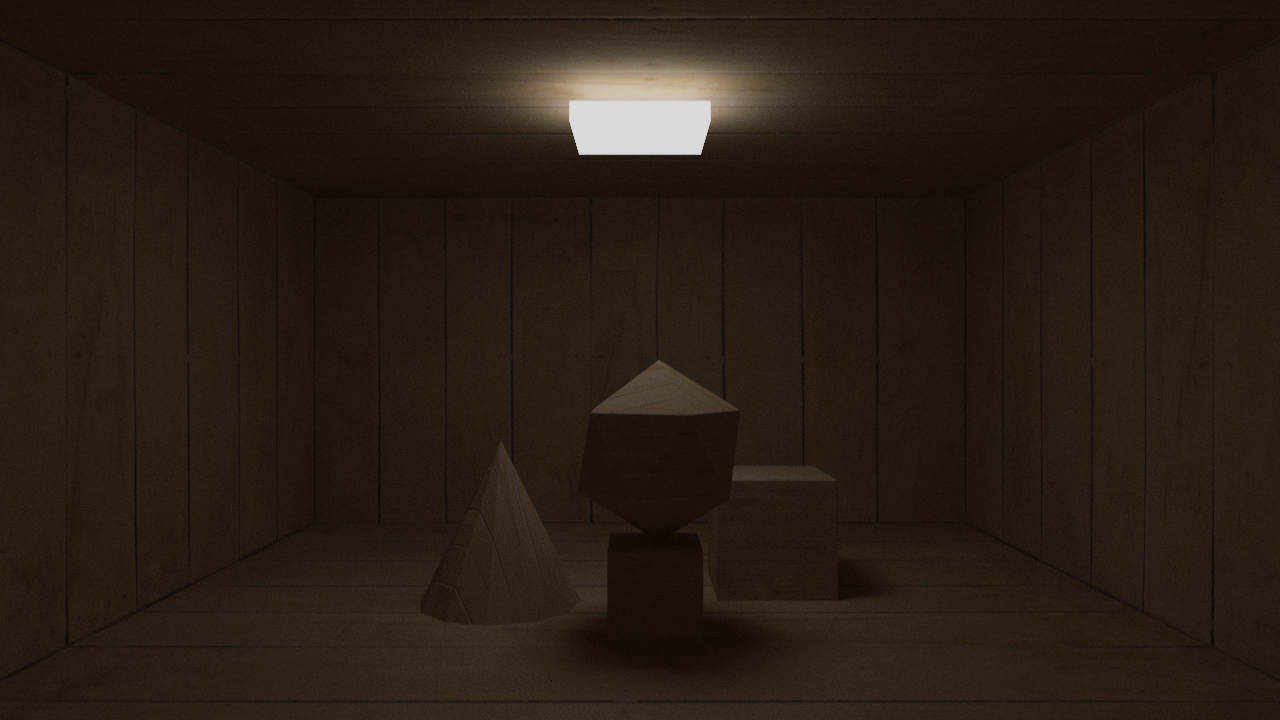
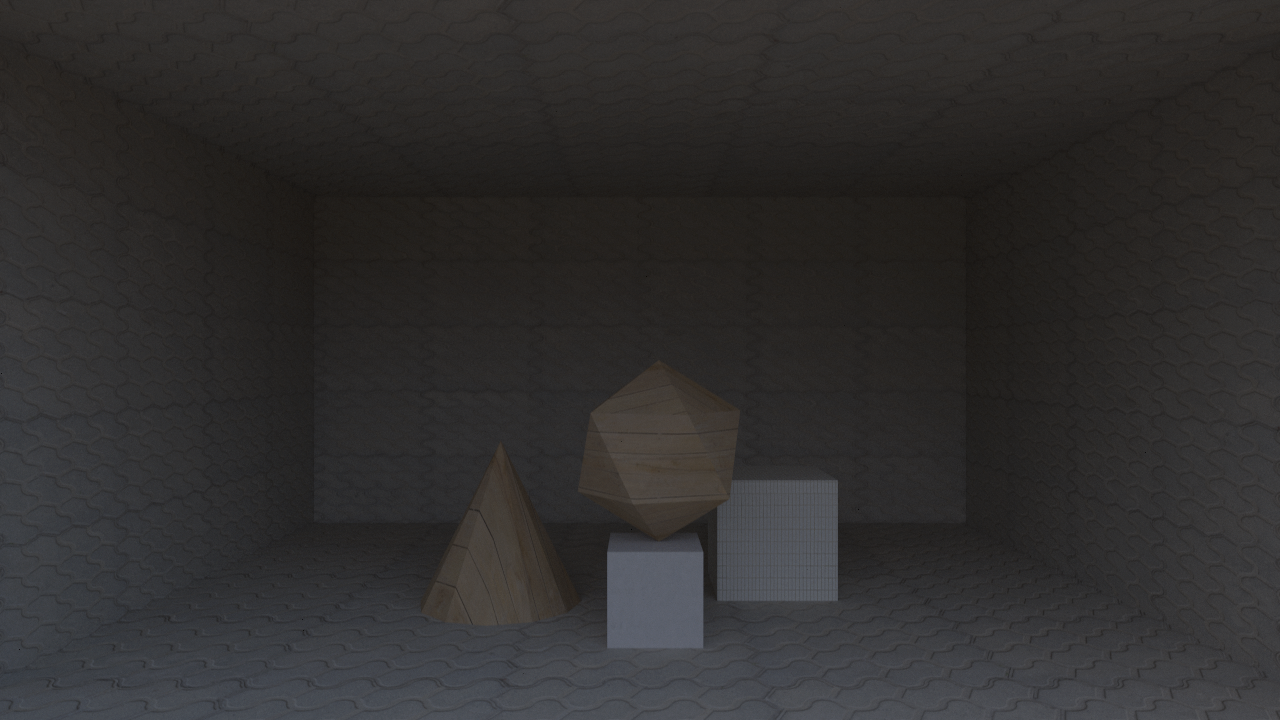
Materials reworked

diff --git a/src/main.cpp b/src/main.cpp
@@ -1,5 +1,6 @@
 #include "glad/glad.h"
 #include <GLFW/glfw3.h>
+#include <cstdint>
 #include <glm/ext/matrix_float4x4.hpp>
 #include <glm/ext/matrix_transform.hpp>
 #include <glm/glm.hpp>
@@ -101,7 +102,7 @@ int main() {
     Vision::VertexArray va;
     va.AddBuffer(buffer, layout);
 
-    Loader loader("res/models/hdri-test.obj");
+    Loader loader("res/models/scene-2.obj");
 
     Vision::ShaderStorage ssbo(loader.GetTrigs().data(),
                                loader.GetTrigs().size() * sizeof(Triangle), 1);
@@ -112,28 +113,50 @@ int main() {
     meshesBuffer.Bind();
 
     Vision::ComputeShader computeShader("res/shaders/Basic.comp");
-    computeShader.SetIntArrayInit("uTex");
     Vision::Texture textureOld(imgSize.x, imgSize.y, GL_RGBA32F, 1);
     textureOld.Bind(1);
     Vision::Texture texture(imgSize.x, imgSize.y, GL_RGBA32F, 0);
     texture.Bind(0);
 
-    Material planks(0, "res/textures/wood_planks_diff_2k.png",
-                    "res/textures/wood_planks_rough_2k.png",
-                    "res/textures/wood_planks_nor_gl_2k.png", //
-                    GL_RGB16F, GL_R16F, GL_RGB16F);
-    Material concrete(1, "res/textures/patterned_concrete_pavers_diff_2k.png",
+    Material tiles(0, "res/textures/long_white_tiles_diff_2k.png",
+                      "res/textures/long_white_tiles_rough_2k.png",
+                      "res/textures/long_white_tiles_nor_gl_2k.png", //
+                      GL_RGB8, GL_R8, GL_RGB8);
+    Material plaster(1, "res/textures/painted_plaster_wall_diff_2k.png",
+                      "res/textures/painted_plaster_wall_rough_2k.png",
+                      "res/textures/painted_plaster_wall_nor_gl_2k.png", //
+                      GL_RGB8, GL_R8, GL_RGB8);
+    Material concrete(2, "res/textures/patterned_concrete_pavers_diff_2k.png",
                       "res/textures/patterned_concrete_pavers_rough_2k.png",
                       "res/textures/patterned_concrete_pavers_nor_gl_2k.png", //
-                      GL_RGB16F, GL_R16F, GL_RGB16F);
+                      GL_RGB8, GL_R8, GL_RGB8);
+    Material planks(3, "res/textures/wood_planks_diff_2k.png",
+                    "res/textures/wood_planks_rough_2k.png",
+                    "res/textures/wood_planks_nor_gl_2k.png", //
+                    GL_RGB8, GL_R8, GL_RGB8);
 
-    std::array<MatData, 2> mats = {
-        planks.GetData(),
+    std::array<MatData, 4> mats = {
+        tiles.GetData(),
+        plaster.GetData(),
         concrete.GetData(),
+        planks.GetData(),
     };
 
     Vision::ShaderStorage matsBuffer(mats.data(), mats.size() * sizeof(MatData),
                                      3);
+    matsBuffer.Bind();
+
+    std::vector<uint64_t> handles;
+    handles.reserve(12);
+    plaster.PushHandles(handles);
+    tiles.PushHandles(handles);
+    concrete.PushHandles(handles);
+    planks.PushHandles(handles);
+
+    Vision::ShaderStorage textureHandles(
+        handles.data(), handles.size() * sizeof(uint64_t),
+        4);
+    textureHandles.Bind();
 
     Vision::Texture envTex("res/textures/klippad_dawn_2_2k.exr", GL_RGBA32F);
 
@@ -181,7 +204,6 @@ int main() {
         computeShader.SetFloat("uRayPerPixel", 75);
         computeShader.SetVec3f("uCamPos", cam.getPos());
         computeShader.SetVec2i("uRes", imgSize);
-        planks.Bind();
         envTex.Bind(31);
 
         computeShader.Dispatch({imgSize.x / 16, imgSize.y / 16, 1});

diff --git a/src/Material.cpp b/src/Material.cpp
@@ -1,15 +1,19 @@
 #include "Material.hpp"
 #include <iostream>
+#include <vector>
 
 Material::Material(uint32_t id, std::string diffPath, std::string roughPath,
                    std::string normPath, uint32_t diffFormat,
                    uint32_t roughFormat, uint32_t normFormat,
                    float emissionStrength)
-    : id(id), diff(diffPath, diffFormat), rough(roughPath, roughFormat),
-      norm(normPath, normFormat), emissionStrength(emissionStrength) {
-    diff.Bind(id * 3 + 0);
-    rough.Bind(id * 3 + 1);
-    norm.Bind(id * 3 + 2);
+    : id(id), rough(roughPath, roughFormat), norm(normPath, normFormat),
+      diff(diffPath, diffFormat), emissionStrength(emissionStrength) {
+
+    data.emissionStrength = emissionStrength;
+    data.roughIndex = id * 3 + 0;
+    data.normIndex = id * 3 + 1;
+    data.diffIndex = id * 3 + 2;
+
     std::cout << "Material created, id: " << id << std::endl;
 }
 
@@ -17,17 +21,8 @@ Material::~Material() {
     std::cout << "Material destroyed, id: " << id << std::endl;
 }
 
-void Material::Bind() {
-    diff.Bind();
-    rough.Bind();
-    norm.Bind();
-}
-MatData Material::GetData() {
-    MatData data;
-    data.emissionStrength = emissionStrength;
-    data.diffIndex = id * 3 + 0;
-    data.roughIndex = id * 3 + 1;
-    data.normIndex = id * 3 + 2;
-
-    return data;
+void Material::PushHandles(std::vector<uint64_t>& vec) {
+    vec.push_back(rough.GetHandle());
+    vec.push_back(norm.GetHandle());
+    vec.push_back(diff.GetHandle());
 }

diff --git a/include/Material.hpp b/include/Material.hpp
@@ -1,8 +1,9 @@
 #pragma once
 
-#include "Texture.hpp"
+#include "BindlessTexture.hpp"
 #include <cstdint>
 #include <string>
+#include <vector>
 
 struct alignas(4) MatData {
     uint32_t diffIndex;
@@ -14,15 +15,17 @@ struct alignas(4) MatData {
 class Material {
   private:
     uint32_t id;
+    MatData data;
 
-    Vision::Texture diff;
-    Vision::Texture rough;
-    Vision::Texture norm;
+    Vision::BindlessTexture rough;
+    Vision::BindlessTexture norm;
+    Vision::BindlessTexture diff;
     float emissionStrength = 0;
 
   public:
     Material(uint32_t id, std::string diffPath, std::string roughPath,
-             std::string normPath, uint32_t diffFormat, uint32_t roughFormat, uint32_t normFormat, float emissionStrength = 0);
+             std::string normPath, uint32_t diffFormat, uint32_t roughFormat,
+             uint32_t normFormat, float emissionStrength = 0);
     Material(Material&&) = default;
     Material(const Material&) = default;
     Material& operator=(Material&&) = default;
@@ -30,7 +33,7 @@ class Material {
     ~Material();
 
     inline uint32_t GetId() { return id; }
-    void Bind();
+    void PushHandles(std::vector<uint64_t>& vec);
 
-    MatData GetData();
+    inline MatData GetData() { return data; }
 };

diff --git a/include/Shader.hpp b/include/Shader.hpp
@@ -2,6 +2,7 @@
 
 #include "glad/glad.h"
 #include <string>
+#include <vector>
 
 #include <glm/glm.hpp>
 #include <glm/gtc/type_ptr.hpp>
@@ -19,7 +20,8 @@ class Shader {
     void checkErrors(uint32_t object, std::string type);
 
   public:
-    Shader(const char* vShaderFile, const char* fShaderFile, const char* gShaderFile = nullptr);
+    Shader(const char* vShaderFile, const char* fShaderFile,
+           const char* gShaderFile = nullptr);
 
     void Use() const;
     inline uint32_t& GetID() { return RenderID; }
@@ -41,5 +43,11 @@ class Shader {
                   bool useShader = false);
 
     void SetIntArrayInit(const std::string& name, bool useShader = true);
+
+    void SetHandleui64ARB(const std::string& name, uint64_t value,
+                          bool useShader = true);
+    void SetHandleui64vARB(const std::string& name,
+                                   std::vector<uint64_t>& values,
+                                   bool useShader);
 };
 } // namespace Vision

diff --git a/src/Texture.cpp b/src/Texture.cpp
@@ -78,7 +78,7 @@ void Texture::GenEXR(const std::string path, const uint32_t format) {
                             width);
         file.readPixels(dw.min.y, dw.max.y);
 
-        // Convert to OpenGL-compatible format (float RGBA) and flip vertically
+        // Convert to OpenGL-compatible format
         std::vector<float> glPixels(width * height * 4); // RGBA = 4 channels
         for (size_t i = 0; i < pixels.size(); ++i) {
             glPixels[i * 4 + 0] = pixels[i].r; // Red
@@ -96,6 +96,9 @@ void Texture::GenEXR(const std::string path, const uint32_t format) {
         glTexParameteri(GL_TEXTURE_2D, GL_TEXTURE_MIN_FILTER, GL_LINEAR);
         glTexImage2D(GL_TEXTURE_2D, 0, format, width, height, 0, imgFormat,
                      GL_FLOAT, glPixels.data());
+        glGenerateMipmap(GL_TEXTURE_2D);
+        glTexParameteri(GL_TEXTURE_2D, GL_TEXTURE_MIN_FILTER,
+                        GL_LINEAR_MIPMAP_LINEAR);
 
         glBindTexture(GL_TEXTURE_2D, 0);
 

diff --git a/src/Loader.cpp b/src/Loader.cpp
@@ -6,6 +6,7 @@
 #include <loader/tiny_obj_loader.h>
 #include <stdexcept>
 #include <vector>
+#include <iostream>
 
 struct Vertex {
     glm::vec3 pos;
@@ -75,6 +76,7 @@ Loader::Loader(std::string path) {
 
         // convert matID in mesh name to int
         uint32_t matID = shape.name.at(0) - '0';
+        std::cout << shape.name << ", matID: " << matID << std::endl;
 
         if (matID >= 10) {
             throw std::runtime_error(std::string("MatID of mesh not vaild: ") +
